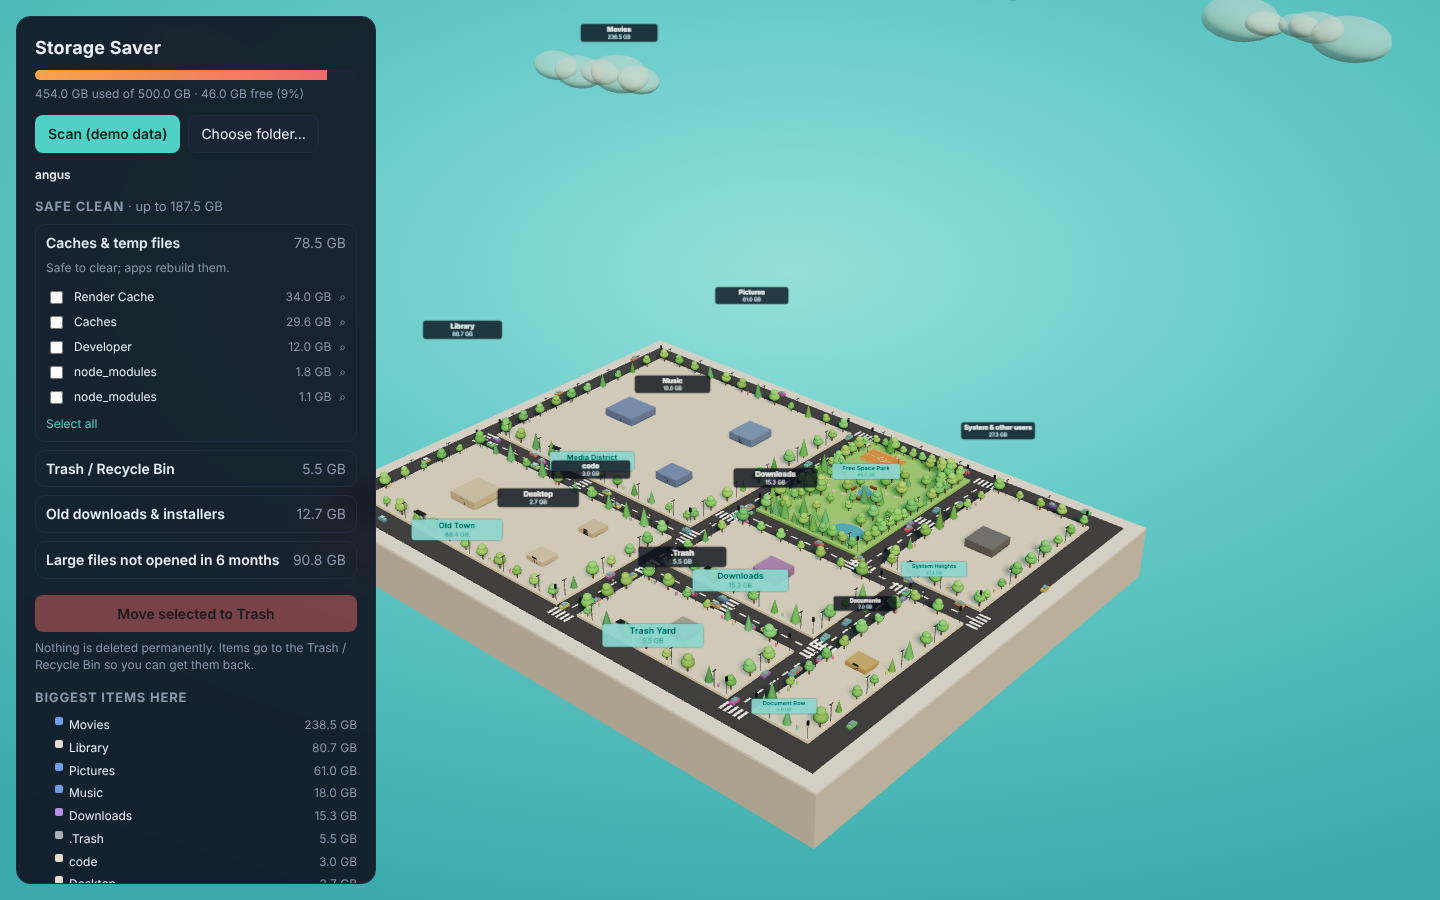
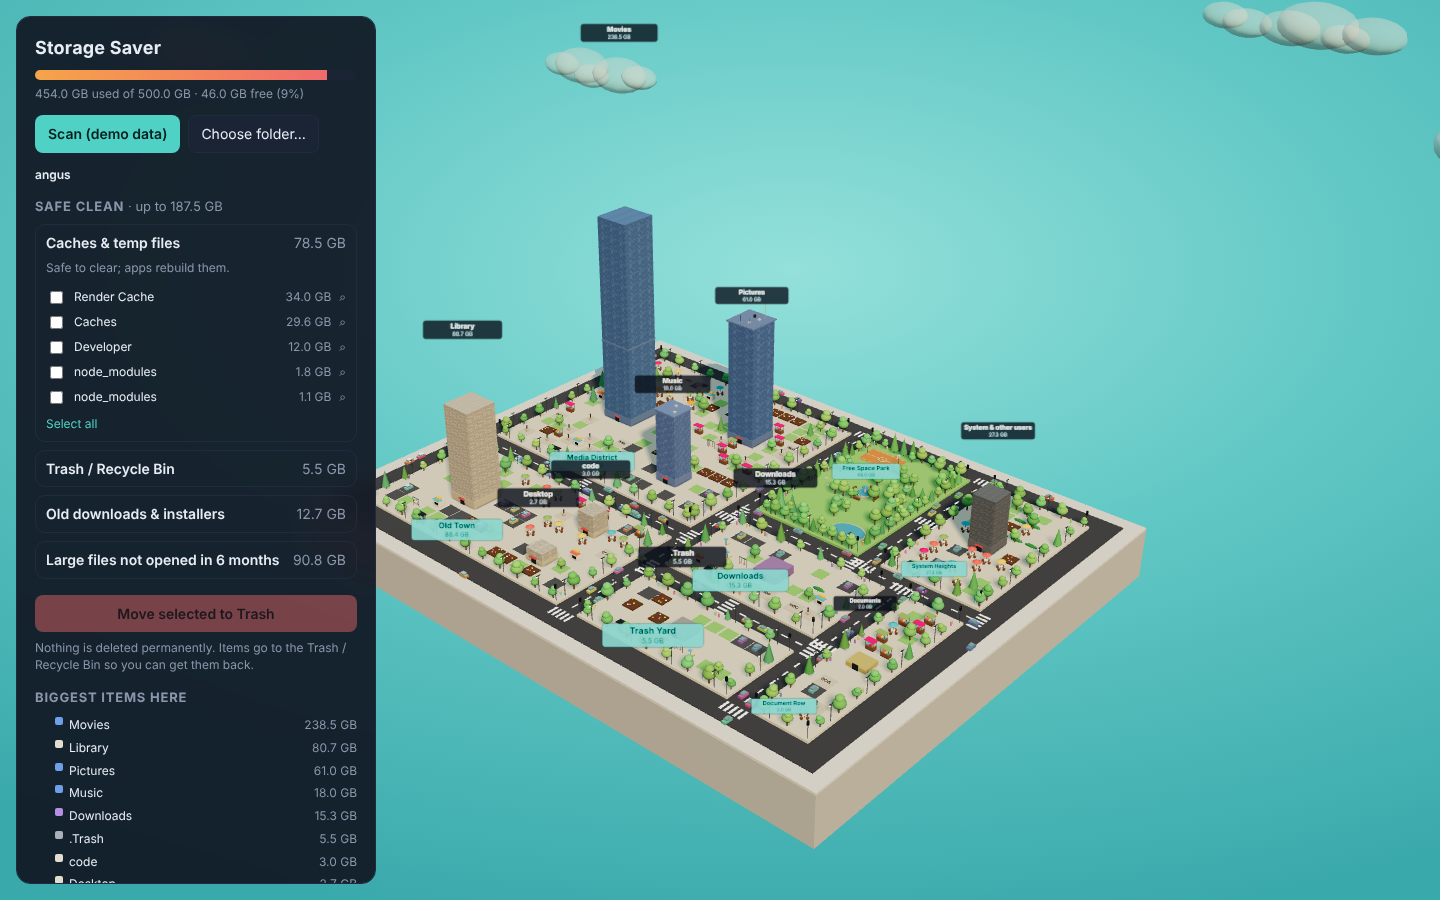
Fill empty lot space with city props
Leftover pavement around each building gets lawns with trees, parking
bays, café terraces, flower beds, kiosks, playgrounds, market stalls,
hedges and small plazas, with open space left between them.

Claude-Session: https://claude.ai/code/session_01S4hEwfN8N2XMNniWz1wTJB

diff --git a/src/renderer/app.js b/src/renderer/app.js
@@ -382,11 +382,14 @@ function placeSuburb(r) {
   let tallest = 0;
   let tallestRect = null;
   for (const lr of lotRects) {
+    const before = meshes.length;
     const h = placeBuilding(lr, 1, LOT_GAP);
     if (h > tallest) {
       tallest = h;
       tallestRect = lr;
     }
+    const built = meshes.length > before ? meshes[meshes.length - 1].userData.footprint : null;
+    fillLot(lr, built);
   }
   // Suburb sign at the front edge; building labels on the biggest items.
   if (w * d > 90) addLabel({ name: SUBURB_NAMES[sub.kind] || sub.kind, size: sub.total }, x0 + w / 2, 1.2, z0 + d - 1, Math.min(w, 30), true);
@@ -423,6 +426,7 @@ function placeBuilding(r, depth, gap) {
   activeBuilding = b;
   decorate(b, w, h, d);
   activeBuilding = null;
+  b.userData.footprint = { x: b.position.x, z: b.position.z, w, d };
   return h;
 }
 let activeBuilding = null;
@@ -515,6 +519,139 @@ function decorate(b, w, h, d) {
     piece(boxGeo, trim, x, top - 0.15, z, w + 0.18, 0.18, d + 0.18);
     if (Math.random() < 0.6) piece(boxGeo, trim, x + (Math.random() - 0.5) * w * 0.5, top, z + (Math.random() - 0.5) * d * 0.5, 0.4, 0.7, 0.4, false);
     else piece(boxGeo, glassMat, x, top, z, w * 0.4, 0.25, d * 0.4, false);
+  }
+}
+
+// ---------------------------------------------------------------------------
+// Lot fillers: the pavement left around a building gets small city props so
+// no block is a blank slab (parking, cafés, kiosks, gardens, playgrounds…).
+// ---------------------------------------------------------------------------
+const CELL = 3.0;
+const PROP_COLORS = [0xff6b6b, 0xffd166, 0x4cc9f0, 0xf72585, 0x90be6d, 0xff9f1c];
+const propMats = {};
+function propMat(hex) {
+  if (!propMats[hex]) propMats[hex] = new THREE.MeshStandardMaterial({ color: hex, roughness: 0.85 });
+  return propMats[hex];
+}
+const asphaltTileMat = new THREE.MeshStandardMaterial({ color: 0x565b66, roughness: 0.95 });
+const soilMat = new THREE.MeshStandardMaterial({ color: 0x6b4a2e, roughness: 1 });
+const hedgeMat = new THREE.MeshStandardMaterial({ color: 0x3f9a4f, roughness: 0.9 });
+
+function fillLot(lr, b) {
+  const x0 = lr.x + LOT_GAP / 2;
+  const z0 = lr.y + LOT_GAP / 2;
+  const w = lr.w - LOT_GAP;
+  const d = lr.h - LOT_GAP;
+  const strips = [];
+  if (!b) {
+    strips.push({ x: x0, z: z0, w, d });
+  } else {
+    const m = 0.7; // breathing room around the building
+    const bx0 = b.x - b.w / 2 - m;
+    const bx1 = b.x + b.w / 2 + m;
+    const bz0 = b.z - b.d / 2 - m;
+    const bz1 = b.z + b.d / 2 + m;
+    strips.push({ x: x0, z: z0, w, d: bz0 - z0 }); // top
+    strips.push({ x: x0, z: bz1, w, d: z0 + d - bz1 }); // bottom
+    strips.push({ x: x0, z: bz0, w: bx0 - x0, d: bz1 - bz0 }); // left
+    strips.push({ x: bx1, z: bz0, w: x0 + w - bx1, d: bz1 - bz0 }); // right
+  }
+  for (const st of strips) {
+    if (st.w < CELL || st.d < CELL) continue;
+    const cols = Math.floor(st.w / CELL);
+    const rows = Math.floor(st.d / CELL);
+    const ox = st.x + (st.w - cols * CELL) / 2;
+    const oz = st.z + (st.d - rows * CELL) / 2;
+    // A strip of several cells gets one theme so it reads as a place, not clutter.
+    const theme = Math.random();
+    for (let i = 0; i < cols; i++) {
+      for (let j = 0; j < rows; j++) {
+        const cx = ox + (i + 0.5) * CELL;
+        const cz = oz + (j + 0.5) * CELL;
+        const r = Math.random();
+        if (r < 0.3) continue; // leave open pavement
+        if (r < 0.5) {
+          piece(boxGeo, parkMat, cx, 1.1, cz, CELL - 0.5, 0.05, CELL - 0.5, false); // lawn
+          if (Math.random() < 0.5) treeSpots.push([cx + (Math.random() - 0.5), cz + (Math.random() - 0.5)]);
+          continue;
+        }
+        placeProp(cx, cz, Math.random() < 0.7 ? theme : Math.random(), (i + j) % 2 === 0);
+      }
+    }
+  }
+}
+
+function placeProp(x, z, theme, alt) {
+  const y = 1.1;
+  if (theme < 0.22) {
+    // Parking bay with a car in most spaces.
+    piece(boxGeo, asphaltTileMat, x, y, z, CELL - 0.1, 0.06, CELL - 0.1, false);
+    piece(boxGeo, laneMat, x - CELL / 2 + 0.1, y + 0.06, z, 0.08, 0.02, CELL - 0.4, false);
+    if (Math.random() < 0.7) {
+      const mat = new THREE.MeshStandardMaterial({ color: new THREE.Color().setHSL(Math.random(), 0.55, 0.5), roughness: 0.5, metalness: 0.3 });
+      piece(boxGeo, mat, x, y + 0.06, z, 0.8, 0.45, 1.6);
+      piece(boxGeo, glassMat, x, y + 0.51, z + 0.1, 0.7, 0.3, 0.85, false);
+    }
+  } else if (theme < 0.4) {
+    // Café terrace: umbrella, table, chairs.
+    const c = PROP_COLORS[Math.floor(Math.random() * PROP_COLORS.length)];
+    piece(cylGeo, poleMat, x, y, z, 0.06, 2.0, 0.06, false);
+    piece(coneGeo, propMat(c), x, y + 1.6, z, 1.7, 0.45, 1.7);
+    piece(discGeo, whiteMat, x, y + 0.55, z, 0.8, 0.06, 0.8, false);
+    piece(cylGeo, poleMat, x, y, z, 0.08, 0.55, 0.08, false);
+    for (const [dx, dz] of [[0.65, 0], [-0.65, 0], [0, 0.65], [0, -0.65]]) piece(boxGeo, benchMat, x + dx, y, z + dz, 0.35, 0.4, 0.35, false);
+  } else if (theme < 0.52) {
+    // Flower bed.
+    piece(boxGeo, soilMat, x, y, z, CELL - 0.5, 0.25, CELL - 0.5, false);
+    for (let k = 0; k < 5; k++) {
+      const c = [0xff5d8f, 0xffd23f, 0xff8c42, 0xffffff, 0xb388ff][k];
+      piece(sphereGeo, propMat(c), x + (Math.random() - 0.5) * (CELL - 1), y + 0.35, z + (Math.random() - 0.5) * (CELL - 1), 0.35, 0.3, 0.35, false);
+    }
+  } else if (theme < 0.62) {
+    // Kiosk with striped awning.
+    piece(boxGeo, whiteMat, x, y, z, 1.5, 1.3, 1.3);
+    piece(boxGeo, propMat(alt ? 0xff6b6b : 0x4cc9f0), x, y + 1.3, z + 0.35, 1.8, 0.1, 0.9);
+    piece(boxGeo, signalMat, x, y + 0.35, z + 0.66, 0.9, 0.5, 0.04, false);
+    piece(boxGeo, propMat(0xffd166), x, y + 1.42, z, 1.2, 0.3, 0.6, false);
+  } else if (theme < 0.72) {
+    // Playground: slide and a swing frame.
+    if (alt) {
+      piece(cylGeo, poleMat, x - 0.5, y, z, 0.06, 1.3, 0.06, false);
+      const slide = piece(boxGeo, propMat(0xffd166), x + 0.15, y + 0.55, z, 1.6, 0.08, 0.5, false);
+      slide.rotation.z = 0.7;
+      piece(boxGeo, propMat(0x4cc9f0), x - 0.5, y + 1.3, z, 0.6, 0.08, 0.6, false);
+    } else {
+      piece(cylGeo, poleMat, x - 0.8, y, z, 0.06, 1.6, 0.06, false);
+      piece(cylGeo, poleMat, x + 0.8, y, z, 0.06, 1.6, 0.06, false);
+      piece(boxGeo, poleMat, x, y + 1.6, z, 1.7, 0.06, 0.06, false);
+      for (const dx of [-0.35, 0.35]) {
+        piece(boxGeo, poleMat, x + dx, y + 0.5, z, 0.02, 1.1, 0.02, false);
+        piece(boxGeo, propMat(0xff6b6b), x + dx, y + 0.45, z, 0.35, 0.05, 0.2, false);
+      }
+    }
+  } else if (theme < 0.82) {
+    // Market stall.
+    piece(boxGeo, benchMat, x, y, z, 1.6, 0.7, 0.9, false);
+    for (const [dx, dz] of [[-0.75, -0.4], [0.75, -0.4], [-0.75, 0.4], [0.75, 0.4]]) piece(cylGeo, poleMat, x + dx, y, z + dz, 0.05, 1.7, 0.05, false);
+    piece(boxGeo, propMat(alt ? 0xf72585 : 0x90be6d), x, y + 1.7, z, 1.9, 0.08, 1.2);
+    for (let k = 0; k < 3; k++) piece(boxGeo, propMat(PROP_COLORS[(k + (alt ? 2 : 0)) % PROP_COLORS.length]), x - 0.5 + k * 0.5, y + 0.7, z, 0.35, 0.2, 0.5, false);
+  } else if (theme < 0.9) {
+    // Hedge row with a tree.
+    piece(sphereGeo, hedgeMat, x, y, z, CELL - 0.4, 0.9, 0.7, true);
+    if (alt) treeSpots.push([x, z + 0.7]);
+  } else {
+    // Small plaza: paving, statue plinth and bike racks.
+    piece(boxGeo, stoneMat, x, y, z, CELL - 0.2, 0.05, CELL - 0.2, false);
+    if (alt) {
+      piece(boxGeo, stoneMat, x, y + 0.05, z, 0.6, 0.5, 0.6, false);
+      piece(cylGeo, poleMat, x, y + 0.55, z, 0.18, 0.7, 0.18, false);
+      piece(sphereGeo, poleMat, x, y + 1.25, z, 0.3, 0.3, 0.3, false);
+    } else {
+      for (let k = 0; k < 3; k++) {
+        const r = piece(torusGeo, poleMat, x - 0.6 + k * 0.6, y + 0.3, z, 0.5, 1, 0.5, false);
+        r.rotation.x = 0;
+      }
+    }
   }
 }
 
